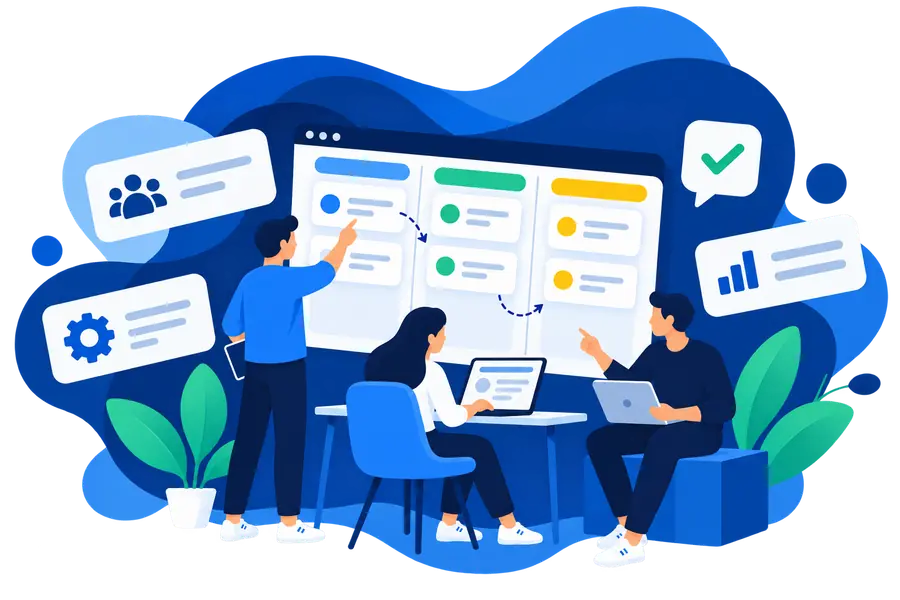
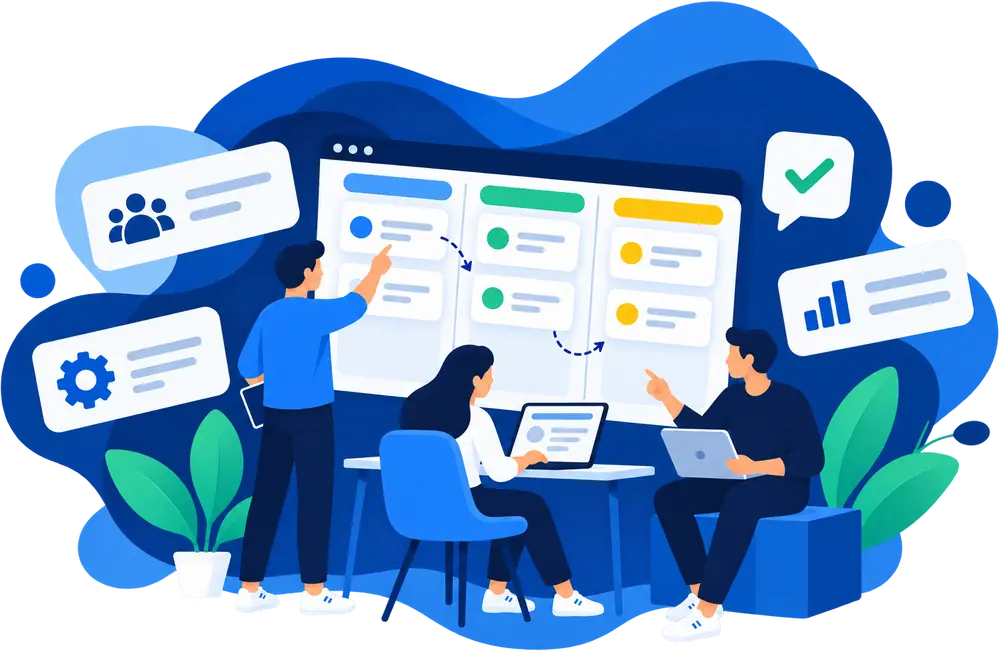
Give the How we work illustrations room to be seen
The illustration was rendering at a fraction of the space it was given,
for two compounding reasons.

The source art sits inside a padded canvas and object-contain fits the
canvas, not the art. Discover wasted 31% of its box on empty pixels, so
it drew a fifth smaller than it should have. The sources are trimmed now.

The panel then inherited its height from the step rail beside it, so the
image box was the same on a 1080p screen as on a 900px one: 250px tall
inside a box three times wider than that, which object-contain could not
fill. The panel now takes what the viewport can spare, clamped so it
never outgrows the pinned scene.

At 1920x1080 the illustration goes from 878x250 to 950x395. The panel is
wider too, from a 17rem rail rather than 20rem, and the section title
holds one line instead of wrapping.

Fit still verified at every height the scene runs at: 141px spare at
1080, 89px at 900, 70px at 864. All five steps still advance under the
pin.

diff --git a/components/home/Process.tsx b/components/home/Process.tsx
@@ -118,13 +118,15 @@ export function Process() {
       {/* ------------------------------------------------------- desktop */}
       <div ref={root} className="hidden [@media(min-width:1024px)_and_(min-height:820px)]:block">
         <div className="shell py-12">
+          {/* Wider than the default measure so the title holds one line. */}
           <SectionHeading
+            className="max-w-4xl"
             eyebrow="How we work"
             title="Five steps, every campaign, no exceptions."
             lede="The order matters. Most failed campaigns skipped step one and discovered it at step four."
           />
 
-          <div className="mt-9 grid grid-cols-[20rem_1fr] gap-16">
+          <div className="mt-9 grid grid-cols-[17rem_1fr] gap-10 xl:gap-12">
             <ol className="relative">
               <span
                 className="absolute left-[15px] top-2 h-[calc(100%-2.5rem)] w-px bg-[color:var(--color-hairline)]"
@@ -167,11 +169,11 @@ export function Process() {
               })}
             </ol>
 
-            <div className="relative min-h-[16rem] rounded-2xl border border-[color:var(--color-hairline)] bg-white">
+            <div className="relative min-h-[clamp(22rem,calc(100svh-26rem),38rem)] rounded-2xl border border-[color:var(--color-hairline)] bg-white">
               {process.map((step, i) => (
                 <div
                   key={step.id}
-                  className="absolute inset-0 flex flex-col p-8 transition-opacity duration-[620ms] [transition-timing-function:cubic-bezier(0.16,1,0.3,1)]"
+                  className="absolute inset-0 flex flex-col p-7 transition-opacity duration-[620ms] [transition-timing-function:cubic-bezier(0.16,1,0.3,1)]"
                   style={{
                     opacity: active === i ? 1 : 0,
                     pointerEvents: active === i ? 'auto' : 'none',
@@ -198,12 +200,12 @@ export function Process() {
                        take whatever height the pinned scene has left without
                        being cropped.
                     */
-                    <div className="relative mt-5 min-h-0 flex-1">
+                    <div className="relative mt-6 min-h-0 flex-1">
                       <Image
                         src={asset(step.image)}
                         alt=""
                         fill
-                        sizes="(min-width: 1024px) 48rem, 0px"
+                        sizes="(min-width: 1024px) 60rem, 0px"
                         className="object-contain object-center"
                       />
                     </div>
